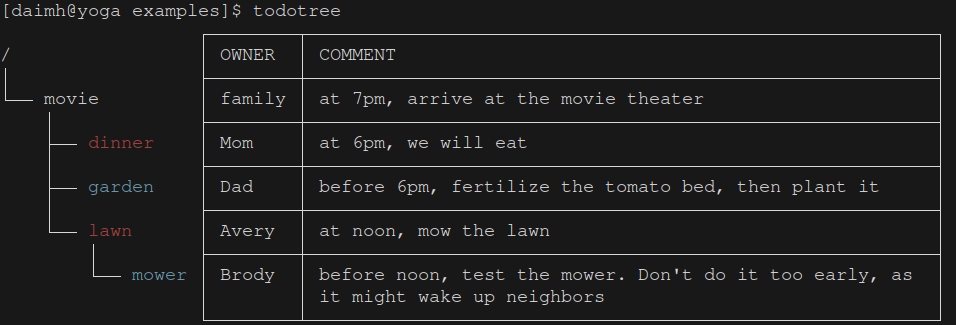
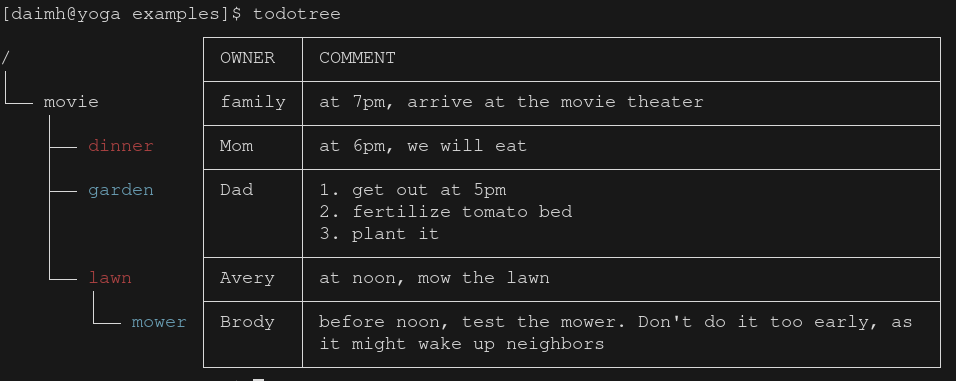
Feat: automatically change to ordered list

diff --git a/examples/output/no-owner.html b/examples/output/no-owner.html
@@ -3,16 +3,19 @@
 <p style='font-family: monospace; font-size: 16px; margin: 0px; line-height: 16px'>│&nbsp;&nbsp;&nbsp;&nbsp;&nbsp;&nbsp;&nbsp;&nbsp;&nbsp;&nbsp;&nbsp;&nbsp;&nbsp;&nbsp;&nbsp;&nbsp;&nbsp;├──────────────────────────────────────────────────────┤</p>
 <p style='font-family: monospace; font-size: 16px; margin: 0px; line-height: 16px'>└──&nbsp;movie&nbsp;&nbsp;&nbsp;&nbsp;&nbsp;&nbsp;&nbsp;&nbsp;&nbsp;│&nbsp;at 7pm, arrive at the movie theater&nbsp;&nbsp;&nbsp;&nbsp;&nbsp;&nbsp;&nbsp;&nbsp;&nbsp;&nbsp;&nbsp;&nbsp;&nbsp;&nbsp;&nbsp;&nbsp;&nbsp;&nbsp;│</p>
 <p style='font-family: monospace; font-size: 16px; margin: 0px; line-height: 16px'>&nbsp;&nbsp;&nbsp;&nbsp;│&nbsp;&nbsp;&nbsp;&nbsp;&nbsp;&nbsp;&nbsp;&nbsp;&nbsp;&nbsp;&nbsp;&nbsp;&nbsp;├──────────────────────────────────────────────────────┤</p>
-<p style='font-family: monospace; font-size: 16px; margin: 0px; line-height: 16px'>&nbsp;&nbsp;&nbsp;&nbsp;├──&nbsp;<span style='color:red'>dinner</span>&nbsp;&nbsp;&nbsp;&nbsp;│&nbsp;at 6pm, we will eat&nbsp;&nbsp;&nbsp;&nbsp;&nbsp;&nbsp;&nbsp;&nbsp;&nbsp;&nbsp;&nbsp;&nbsp;&nbsp;&nbsp;&nbsp;&nbsp;&nbsp;&nbsp;&nbsp;&nbsp;&nbsp;&nbsp;&nbsp;&nbsp;&nbsp;&nbsp;&nbsp;&nbsp;&nbsp;&nbsp;&nbsp;&nbsp;&nbsp;&nbsp;│</p>
-<p style='font-family: monospace; font-size: 16px; margin: 0px; line-height: 16px'>&nbsp;&nbsp;&nbsp;&nbsp;│&nbsp;&nbsp;&nbsp;&nbsp;&nbsp;&nbsp;&nbsp;&nbsp;&nbsp;&nbsp;&nbsp;&nbsp;&nbsp;│&nbsp;Meat, meat, meat, please&nbsp;&nbsp;&nbsp;&nbsp;&nbsp;&nbsp;&nbsp;&nbsp;&nbsp;&nbsp;&nbsp;&nbsp;&nbsp;&nbsp;&nbsp;&nbsp;&nbsp;&nbsp;&nbsp;&nbsp;&nbsp;&nbsp;&nbsp;&nbsp;&nbsp;&nbsp;&nbsp;&nbsp;&nbsp;│</p>
+<p style='font-family: monospace; font-size: 16px; margin: 0px; line-height: 16px'>&nbsp;&nbsp;&nbsp;&nbsp;├──&nbsp;<span style='color:red'>dinner</span>&nbsp;&nbsp;&nbsp;&nbsp;│&nbsp;1.&nbsp;at 6pm, we will eat&nbsp;&nbsp;&nbsp;&nbsp;&nbsp;&nbsp;&nbsp;&nbsp;&nbsp;&nbsp;&nbsp;&nbsp;&nbsp;&nbsp;&nbsp;&nbsp;&nbsp;&nbsp;&nbsp;&nbsp;&nbsp;&nbsp;&nbsp;&nbsp;&nbsp;&nbsp;&nbsp;&nbsp;&nbsp;&nbsp;&nbsp;│</p>
+<p style='font-family: monospace; font-size: 16px; margin: 0px; line-height: 16px'>&nbsp;&nbsp;&nbsp;&nbsp;│&nbsp;&nbsp;&nbsp;&nbsp;&nbsp;&nbsp;&nbsp;&nbsp;&nbsp;&nbsp;&nbsp;&nbsp;&nbsp;│&nbsp;2.&nbsp;Meat, meat, meat, please&nbsp;&nbsp;&nbsp;&nbsp;&nbsp;&nbsp;&nbsp;&nbsp;&nbsp;&nbsp;&nbsp;&nbsp;&nbsp;&nbsp;&nbsp;&nbsp;&nbsp;&nbsp;&nbsp;&nbsp;&nbsp;&nbsp;&nbsp;&nbsp;&nbsp;&nbsp;│</p>
 <p style='font-family: monospace; font-size: 16px; margin: 0px; line-height: 16px'>&nbsp;&nbsp;&nbsp;&nbsp;│&nbsp;&nbsp;&nbsp;&nbsp;&nbsp;&nbsp;&nbsp;&nbsp;&nbsp;&nbsp;&nbsp;&nbsp;&nbsp;├──────────────────────────────────────────────────────┤</p>
-<p style='font-family: monospace; font-size: 16px; margin: 0px; line-height: 16px'>&nbsp;&nbsp;&nbsp;&nbsp;├──&nbsp;<span style='color:blue'>garden</span>&nbsp;&nbsp;&nbsp;&nbsp;│&nbsp;before 6pm, fertilize the tomato bed, then plant it&nbsp;&nbsp;│</p>
-<p style='font-family: monospace; font-size: 16px; margin: 0px; line-height: 16px'>&nbsp;&nbsp;&nbsp;&nbsp;│&nbsp;&nbsp;&nbsp;&nbsp;&nbsp;&nbsp;&nbsp;&nbsp;&nbsp;&nbsp;&nbsp;&nbsp;&nbsp;│&nbsp;Remember to explore the option of planting cucumber&nbsp;&nbsp;│</p>
+<p style='font-family: monospace; font-size: 16px; margin: 0px; line-height: 16px'>&nbsp;&nbsp;&nbsp;&nbsp;├──&nbsp;<span style='color:blue'>garden</span>&nbsp;&nbsp;&nbsp;&nbsp;│&nbsp;1.&nbsp;before 6pm, fertilize the tomato bed, then plant &nbsp;│</p>
+<p style='font-family: monospace; font-size: 16px; margin: 0px; line-height: 16px'>&nbsp;&nbsp;&nbsp;&nbsp;│&nbsp;&nbsp;&nbsp;&nbsp;&nbsp;&nbsp;&nbsp;&nbsp;&nbsp;&nbsp;&nbsp;&nbsp;&nbsp;│&nbsp;&nbsp;&nbsp;&nbsp;it&nbsp;&nbsp;&nbsp;&nbsp;&nbsp;&nbsp;&nbsp;&nbsp;&nbsp;&nbsp;&nbsp;&nbsp;&nbsp;&nbsp;&nbsp;&nbsp;&nbsp;&nbsp;&nbsp;&nbsp;&nbsp;&nbsp;&nbsp;&nbsp;&nbsp;&nbsp;&nbsp;&nbsp;&nbsp;&nbsp;&nbsp;&nbsp;&nbsp;&nbsp;&nbsp;&nbsp;&nbsp;&nbsp;&nbsp;&nbsp;&nbsp;&nbsp;&nbsp;&nbsp;&nbsp;&nbsp;&nbsp;&nbsp;│</p>
+<p style='font-family: monospace; font-size: 16px; margin: 0px; line-height: 16px'>&nbsp;&nbsp;&nbsp;&nbsp;│&nbsp;&nbsp;&nbsp;&nbsp;&nbsp;&nbsp;&nbsp;&nbsp;&nbsp;&nbsp;&nbsp;&nbsp;&nbsp;│&nbsp;2.&nbsp;Remember to explore the option of planting cucumb&nbsp;│</p>
+<p style='font-family: monospace; font-size: 16px; margin: 0px; line-height: 16px'>&nbsp;&nbsp;&nbsp;&nbsp;│&nbsp;&nbsp;&nbsp;&nbsp;&nbsp;&nbsp;&nbsp;&nbsp;&nbsp;&nbsp;&nbsp;&nbsp;&nbsp;│&nbsp;&nbsp;&nbsp;&nbsp;er&nbsp;&nbsp;&nbsp;&nbsp;&nbsp;&nbsp;&nbsp;&nbsp;&nbsp;&nbsp;&nbsp;&nbsp;&nbsp;&nbsp;&nbsp;&nbsp;&nbsp;&nbsp;&nbsp;&nbsp;&nbsp;&nbsp;&nbsp;&nbsp;&nbsp;&nbsp;&nbsp;&nbsp;&nbsp;&nbsp;&nbsp;&nbsp;&nbsp;&nbsp;&nbsp;&nbsp;&nbsp;&nbsp;&nbsp;&nbsp;&nbsp;&nbsp;&nbsp;&nbsp;&nbsp;&nbsp;&nbsp;&nbsp;│</p>
 <p style='font-family: monospace; font-size: 16px; margin: 0px; line-height: 16px'>&nbsp;&nbsp;&nbsp;&nbsp;│&nbsp;&nbsp;&nbsp;&nbsp;&nbsp;&nbsp;&nbsp;&nbsp;&nbsp;&nbsp;&nbsp;&nbsp;&nbsp;├──────────────────────────────────────────────────────┤</p>
-<p style='font-family: monospace; font-size: 16px; margin: 0px; line-height: 16px'>&nbsp;&nbsp;&nbsp;&nbsp;└──&nbsp;<span style='color:red'>lawn</span>&nbsp;&nbsp;&nbsp;&nbsp;&nbsp;&nbsp;│&nbsp;at noon, mow the lawn&nbsp;&nbsp;&nbsp;&nbsp;&nbsp;&nbsp;&nbsp;&nbsp;&nbsp;&nbsp;&nbsp;&nbsp;&nbsp;&nbsp;&nbsp;&nbsp;&nbsp;&nbsp;&nbsp;&nbsp;&nbsp;&nbsp;&nbsp;&nbsp;&nbsp;&nbsp;&nbsp;&nbsp;&nbsp;&nbsp;&nbsp;&nbsp;│</p>
-<p style='font-family: monospace; font-size: 16px; margin: 0px; line-height: 16px'>&nbsp;&nbsp;&nbsp;&nbsp;&nbsp;&nbsp;&nbsp;&nbsp;│&nbsp;&nbsp;&nbsp;&nbsp;&nbsp;&nbsp;&nbsp;&nbsp;&nbsp;│&nbsp;We cannot do it too early&nbsp;&nbsp;&nbsp;&nbsp;&nbsp;&nbsp;&nbsp;&nbsp;&nbsp;&nbsp;&nbsp;&nbsp;&nbsp;&nbsp;&nbsp;&nbsp;&nbsp;&nbsp;&nbsp;&nbsp;&nbsp;&nbsp;&nbsp;&nbsp;&nbsp;&nbsp;&nbsp;&nbsp;│</p>
-<p style='font-family: monospace; font-size: 16px; margin: 0px; line-height: 16px'>&nbsp;&nbsp;&nbsp;&nbsp;&nbsp;&nbsp;&nbsp;&nbsp;│&nbsp;&nbsp;&nbsp;&nbsp;&nbsp;&nbsp;&nbsp;&nbsp;&nbsp;│&nbsp;because the grass is too wet in morning&nbsp;&nbsp;&nbsp;&nbsp;&nbsp;&nbsp;&nbsp;&nbsp;&nbsp;&nbsp;&nbsp;&nbsp;&nbsp;&nbsp;│</p>
+<p style='font-family: monospace; font-size: 16px; margin: 0px; line-height: 16px'>&nbsp;&nbsp;&nbsp;&nbsp;└──&nbsp;<span style='color:red'>lawn</span>&nbsp;&nbsp;&nbsp;&nbsp;&nbsp;&nbsp;│&nbsp;1.&nbsp;at noon, mow the lawn&nbsp;&nbsp;&nbsp;&nbsp;&nbsp;&nbsp;&nbsp;&nbsp;&nbsp;&nbsp;&nbsp;&nbsp;&nbsp;&nbsp;&nbsp;&nbsp;&nbsp;&nbsp;&nbsp;&nbsp;&nbsp;&nbsp;&nbsp;&nbsp;&nbsp;&nbsp;&nbsp;&nbsp;&nbsp;│</p>
+<p style='font-family: monospace; font-size: 16px; margin: 0px; line-height: 16px'>&nbsp;&nbsp;&nbsp;&nbsp;&nbsp;&nbsp;&nbsp;&nbsp;│&nbsp;&nbsp;&nbsp;&nbsp;&nbsp;&nbsp;&nbsp;&nbsp;&nbsp;│&nbsp;2.&nbsp;We cannot do it too early&nbsp;&nbsp;&nbsp;&nbsp;&nbsp;&nbsp;&nbsp;&nbsp;&nbsp;&nbsp;&nbsp;&nbsp;&nbsp;&nbsp;&nbsp;&nbsp;&nbsp;&nbsp;&nbsp;&nbsp;&nbsp;&nbsp;&nbsp;&nbsp;&nbsp;│</p>
+<p style='font-family: monospace; font-size: 16px; margin: 0px; line-height: 16px'>&nbsp;&nbsp;&nbsp;&nbsp;&nbsp;&nbsp;&nbsp;&nbsp;│&nbsp;&nbsp;&nbsp;&nbsp;&nbsp;&nbsp;&nbsp;&nbsp;&nbsp;│&nbsp;3.&nbsp;because the grass is too wet in morning&nbsp;&nbsp;&nbsp;&nbsp;&nbsp;&nbsp;&nbsp;&nbsp;&nbsp;&nbsp;&nbsp;│</p>
 <p style='font-family: monospace; font-size: 16px; margin: 0px; line-height: 16px'>&nbsp;&nbsp;&nbsp;&nbsp;&nbsp;&nbsp;&nbsp;&nbsp;│&nbsp;&nbsp;&nbsp;&nbsp;&nbsp;&nbsp;&nbsp;&nbsp;&nbsp;├──────────────────────────────────────────────────────┤</p>
-<p style='font-family: monospace; font-size: 16px; margin: 0px; line-height: 16px'>&nbsp;&nbsp;&nbsp;&nbsp;&nbsp;&nbsp;&nbsp;&nbsp;└──&nbsp;<span style='color:blue'>mower</span>&nbsp;│&nbsp;before noon, test the mower.&nbsp;&nbsp;&nbsp;&nbsp;&nbsp;&nbsp;&nbsp;&nbsp;&nbsp;&nbsp;&nbsp;&nbsp;&nbsp;&nbsp;&nbsp;&nbsp;&nbsp;&nbsp;&nbsp;&nbsp;&nbsp;&nbsp;&nbsp;&nbsp;&nbsp;│</p>
-<p style='font-family: monospace; font-size: 16px; margin: 0px; line-height: 16px'>&nbsp;&nbsp;&nbsp;&nbsp;&nbsp;&nbsp;&nbsp;&nbsp;&nbsp;&nbsp;&nbsp;&nbsp;&nbsp;&nbsp;&nbsp;&nbsp;&nbsp;&nbsp;│&nbsp;Don't do it too early, as it might wake up neighbors&nbsp;│</p>
+<p style='font-family: monospace; font-size: 16px; margin: 0px; line-height: 16px'>&nbsp;&nbsp;&nbsp;&nbsp;&nbsp;&nbsp;&nbsp;&nbsp;└──&nbsp;<span style='color:blue'>mower</span>&nbsp;│&nbsp;1.&nbsp;before noon, test the mower.&nbsp;&nbsp;&nbsp;&nbsp;&nbsp;&nbsp;&nbsp;&nbsp;&nbsp;&nbsp;&nbsp;&nbsp;&nbsp;&nbsp;&nbsp;&nbsp;&nbsp;&nbsp;&nbsp;&nbsp;&nbsp;&nbsp;│</p>
+<p style='font-family: monospace; font-size: 16px; margin: 0px; line-height: 16px'>&nbsp;&nbsp;&nbsp;&nbsp;&nbsp;&nbsp;&nbsp;&nbsp;&nbsp;&nbsp;&nbsp;&nbsp;&nbsp;&nbsp;&nbsp;&nbsp;&nbsp;&nbsp;│&nbsp;2.&nbsp;Don't do it too early, as it might wake up neighb&nbsp;│</p>
+<p style='font-family: monospace; font-size: 16px; margin: 0px; line-height: 16px'>&nbsp;&nbsp;&nbsp;&nbsp;&nbsp;&nbsp;&nbsp;&nbsp;&nbsp;&nbsp;&nbsp;&nbsp;&nbsp;&nbsp;&nbsp;&nbsp;&nbsp;&nbsp;│&nbsp;&nbsp;&nbsp;&nbsp;ors&nbsp;&nbsp;&nbsp;&nbsp;&nbsp;&nbsp;&nbsp;&nbsp;&nbsp;&nbsp;&nbsp;&nbsp;&nbsp;&nbsp;&nbsp;&nbsp;&nbsp;&nbsp;&nbsp;&nbsp;&nbsp;&nbsp;&nbsp;&nbsp;&nbsp;&nbsp;&nbsp;&nbsp;&nbsp;&nbsp;&nbsp;&nbsp;&nbsp;&nbsp;&nbsp;&nbsp;&nbsp;&nbsp;&nbsp;&nbsp;&nbsp;&nbsp;&nbsp;&nbsp;&nbsp;&nbsp;&nbsp;│</p>
 <p style='font-family: monospace; font-size: 16px; margin: 0px; line-height: 16px'>&nbsp;&nbsp;&nbsp;&nbsp;&nbsp;&nbsp;&nbsp;&nbsp;&nbsp;&nbsp;&nbsp;&nbsp;&nbsp;&nbsp;&nbsp;&nbsp;&nbsp;&nbsp;└──────────────────────────────────────────────────────┘</p>

diff --git a/examples/depth/pos2/todotree.html b/examples/depth/pos2/todotree.html
@@ -1,11 +1,13 @@
-<p style='font-family: monospace; font-size: 16px; margin: 0px; line-height: 16px'>&nbsp;&nbsp;&nbsp;&nbsp;&nbsp;&nbsp;&nbsp;&nbsp;&nbsp;&nbsp;&nbsp;&nbsp;&nbsp;&nbsp;&nbsp;┌────────┬─────────────────────────────────────────────────────┐</p>
-<p style='font-family: monospace; font-size: 16px; margin: 0px; line-height: 16px'>/&nbsp;&nbsp;&nbsp;&nbsp;&nbsp;&nbsp;&nbsp;&nbsp;&nbsp;&nbsp;&nbsp;&nbsp;&nbsp;&nbsp;│&nbsp;OWNER&nbsp;&nbsp;│&nbsp;COMMENT&nbsp;&nbsp;&nbsp;&nbsp;&nbsp;&nbsp;&nbsp;&nbsp;&nbsp;&nbsp;&nbsp;&nbsp;&nbsp;&nbsp;&nbsp;&nbsp;&nbsp;&nbsp;&nbsp;&nbsp;&nbsp;&nbsp;&nbsp;&nbsp;&nbsp;&nbsp;&nbsp;&nbsp;&nbsp;&nbsp;&nbsp;&nbsp;&nbsp;&nbsp;&nbsp;&nbsp;&nbsp;&nbsp;&nbsp;&nbsp;&nbsp;&nbsp;&nbsp;&nbsp;&nbsp;│</p>
-<p style='font-family: monospace; font-size: 16px; margin: 0px; line-height: 16px'>│&nbsp;&nbsp;&nbsp;&nbsp;&nbsp;&nbsp;&nbsp;&nbsp;&nbsp;&nbsp;&nbsp;&nbsp;&nbsp;&nbsp;├────────┼─────────────────────────────────────────────────────┤</p>
-<p style='font-family: monospace; font-size: 16px; margin: 0px; line-height: 16px'>└──&nbsp;movie&nbsp;&nbsp;&nbsp;&nbsp;&nbsp;&nbsp;│&nbsp;family&nbsp;│&nbsp;at 7pm, arrive at the movie theater&nbsp;&nbsp;&nbsp;&nbsp;&nbsp;&nbsp;&nbsp;&nbsp;&nbsp;&nbsp;&nbsp;&nbsp;&nbsp;&nbsp;&nbsp;&nbsp;&nbsp;│</p>
-<p style='font-family: monospace; font-size: 16px; margin: 0px; line-height: 16px'>&nbsp;&nbsp;&nbsp;&nbsp;│&nbsp;&nbsp;&nbsp;&nbsp;&nbsp;&nbsp;&nbsp;&nbsp;&nbsp;&nbsp;├────────┼─────────────────────────────────────────────────────┤</p>
-<p style='font-family: monospace; font-size: 16px; margin: 0px; line-height: 16px'>&nbsp;&nbsp;&nbsp;&nbsp;├──&nbsp;<span style='color:red'>dinner</span>&nbsp;│&nbsp;Mom&nbsp;&nbsp;&nbsp;&nbsp;│&nbsp;at 6pm, we will eat&nbsp;&nbsp;&nbsp;&nbsp;&nbsp;&nbsp;&nbsp;&nbsp;&nbsp;&nbsp;&nbsp;&nbsp;&nbsp;&nbsp;&nbsp;&nbsp;&nbsp;&nbsp;&nbsp;&nbsp;&nbsp;&nbsp;&nbsp;&nbsp;&nbsp;&nbsp;&nbsp;&nbsp;&nbsp;&nbsp;&nbsp;&nbsp;&nbsp;│</p>
-<p style='font-family: monospace; font-size: 16px; margin: 0px; line-height: 16px'>&nbsp;&nbsp;&nbsp;&nbsp;│&nbsp;&nbsp;&nbsp;&nbsp;&nbsp;&nbsp;&nbsp;&nbsp;&nbsp;&nbsp;├────────┼─────────────────────────────────────────────────────┤</p>
-<p style='font-family: monospace; font-size: 16px; margin: 0px; line-height: 16px'>&nbsp;&nbsp;&nbsp;&nbsp;├──&nbsp;<span style='color:blue'>garden</span>&nbsp;│&nbsp;Dad&nbsp;&nbsp;&nbsp;&nbsp;│&nbsp;before 6pm, fertilize the tomato bed, then plant it&nbsp;│</p>
-<p style='font-family: monospace; font-size: 16px; margin: 0px; line-height: 16px'>&nbsp;&nbsp;&nbsp;&nbsp;│&nbsp;&nbsp;&nbsp;&nbsp;&nbsp;&nbsp;&nbsp;&nbsp;&nbsp;&nbsp;├────────┼─────────────────────────────────────────────────────┤</p>
-<p style='font-family: monospace; font-size: 16px; margin: 0px; line-height: 16px'>&nbsp;&nbsp;&nbsp;&nbsp;└──&nbsp;<span style='color:red'>lawn/</span>&nbsp;&nbsp;│&nbsp;Avery&nbsp;&nbsp;│&nbsp;at noon, mow the lawn&nbsp;&nbsp;&nbsp;&nbsp;&nbsp;&nbsp;&nbsp;&nbsp;&nbsp;&nbsp;&nbsp;&nbsp;&nbsp;&nbsp;&nbsp;&nbsp;&nbsp;&nbsp;&nbsp;&nbsp;&nbsp;&nbsp;&nbsp;&nbsp;&nbsp;&nbsp;&nbsp;&nbsp;&nbsp;&nbsp;&nbsp;│</p>
-<p style='font-family: monospace; font-size: 16px; margin: 0px; line-height: 16px'>&nbsp;&nbsp;&nbsp;&nbsp;&nbsp;&nbsp;&nbsp;&nbsp;&nbsp;&nbsp;&nbsp;&nbsp;&nbsp;&nbsp;&nbsp;└────────┴─────────────────────────────────────────────────────┘</p>
+<p style='font-family: monospace; font-size: 16px; margin: 0px; line-height: 16px'>&nbsp;&nbsp;&nbsp;&nbsp;&nbsp;&nbsp;&nbsp;&nbsp;&nbsp;&nbsp;&nbsp;&nbsp;&nbsp;&nbsp;&nbsp;┌────────┬─────────────────────────────────────┐</p>
+<p style='font-family: monospace; font-size: 16px; margin: 0px; line-height: 16px'>/&nbsp;&nbsp;&nbsp;&nbsp;&nbsp;&nbsp;&nbsp;&nbsp;&nbsp;&nbsp;&nbsp;&nbsp;&nbsp;&nbsp;│&nbsp;OWNER&nbsp;&nbsp;│&nbsp;COMMENT&nbsp;&nbsp;&nbsp;&nbsp;&nbsp;&nbsp;&nbsp;&nbsp;&nbsp;&nbsp;&nbsp;&nbsp;&nbsp;&nbsp;&nbsp;&nbsp;&nbsp;&nbsp;&nbsp;&nbsp;&nbsp;&nbsp;&nbsp;&nbsp;&nbsp;&nbsp;&nbsp;&nbsp;&nbsp;│</p>
+<p style='font-family: monospace; font-size: 16px; margin: 0px; line-height: 16px'>│&nbsp;&nbsp;&nbsp;&nbsp;&nbsp;&nbsp;&nbsp;&nbsp;&nbsp;&nbsp;&nbsp;&nbsp;&nbsp;&nbsp;├────────┼─────────────────────────────────────┤</p>
+<p style='font-family: monospace; font-size: 16px; margin: 0px; line-height: 16px'>└──&nbsp;movie&nbsp;&nbsp;&nbsp;&nbsp;&nbsp;&nbsp;│&nbsp;family&nbsp;│&nbsp;at 7pm, arrive at the movie theater&nbsp;│</p>
+<p style='font-family: monospace; font-size: 16px; margin: 0px; line-height: 16px'>&nbsp;&nbsp;&nbsp;&nbsp;│&nbsp;&nbsp;&nbsp;&nbsp;&nbsp;&nbsp;&nbsp;&nbsp;&nbsp;&nbsp;├────────┼─────────────────────────────────────┤</p>
+<p style='font-family: monospace; font-size: 16px; margin: 0px; line-height: 16px'>&nbsp;&nbsp;&nbsp;&nbsp;├──&nbsp;<span style='color:red'>dinner</span>&nbsp;│&nbsp;Mom&nbsp;&nbsp;&nbsp;&nbsp;│&nbsp;at 6pm, we will eat&nbsp;&nbsp;&nbsp;&nbsp;&nbsp;&nbsp;&nbsp;&nbsp;&nbsp;&nbsp;&nbsp;&nbsp;&nbsp;&nbsp;&nbsp;&nbsp;&nbsp;│</p>
+<p style='font-family: monospace; font-size: 16px; margin: 0px; line-height: 16px'>&nbsp;&nbsp;&nbsp;&nbsp;│&nbsp;&nbsp;&nbsp;&nbsp;&nbsp;&nbsp;&nbsp;&nbsp;&nbsp;&nbsp;├────────┼─────────────────────────────────────┤</p>
+<p style='font-family: monospace; font-size: 16px; margin: 0px; line-height: 16px'>&nbsp;&nbsp;&nbsp;&nbsp;├──&nbsp;<span style='color:blue'>garden</span>&nbsp;│&nbsp;Dad&nbsp;&nbsp;&nbsp;&nbsp;│&nbsp;1.&nbsp;get out at 5pm&nbsp;&nbsp;&nbsp;&nbsp;&nbsp;&nbsp;&nbsp;&nbsp;&nbsp;&nbsp;&nbsp;&nbsp;&nbsp;&nbsp;&nbsp;&nbsp;&nbsp;&nbsp;&nbsp;│</p>
+<p style='font-family: monospace; font-size: 16px; margin: 0px; line-height: 16px'>&nbsp;&nbsp;&nbsp;&nbsp;│&nbsp;&nbsp;&nbsp;&nbsp;&nbsp;&nbsp;&nbsp;&nbsp;&nbsp;&nbsp;│&nbsp;&nbsp;&nbsp;&nbsp;&nbsp;&nbsp;&nbsp;&nbsp;│&nbsp;2.&nbsp;fertilize tomato bed&nbsp;&nbsp;&nbsp;&nbsp;&nbsp;&nbsp;&nbsp;&nbsp;&nbsp;&nbsp;&nbsp;&nbsp;&nbsp;│</p>
+<p style='font-family: monospace; font-size: 16px; margin: 0px; line-height: 16px'>&nbsp;&nbsp;&nbsp;&nbsp;│&nbsp;&nbsp;&nbsp;&nbsp;&nbsp;&nbsp;&nbsp;&nbsp;&nbsp;&nbsp;│&nbsp;&nbsp;&nbsp;&nbsp;&nbsp;&nbsp;&nbsp;&nbsp;│&nbsp;3.&nbsp;plant it&nbsp;&nbsp;&nbsp;&nbsp;&nbsp;&nbsp;&nbsp;&nbsp;&nbsp;&nbsp;&nbsp;&nbsp;&nbsp;&nbsp;&nbsp;&nbsp;&nbsp;&nbsp;&nbsp;&nbsp;&nbsp;&nbsp;&nbsp;&nbsp;&nbsp;│</p>
+<p style='font-family: monospace; font-size: 16px; margin: 0px; line-height: 16px'>&nbsp;&nbsp;&nbsp;&nbsp;│&nbsp;&nbsp;&nbsp;&nbsp;&nbsp;&nbsp;&nbsp;&nbsp;&nbsp;&nbsp;├────────┼─────────────────────────────────────┤</p>
+<p style='font-family: monospace; font-size: 16px; margin: 0px; line-height: 16px'>&nbsp;&nbsp;&nbsp;&nbsp;└──&nbsp;<span style='color:red'>lawn/</span>&nbsp;&nbsp;│&nbsp;Avery&nbsp;&nbsp;│&nbsp;at noon, mow the lawn&nbsp;&nbsp;&nbsp;&nbsp;&nbsp;&nbsp;&nbsp;&nbsp;&nbsp;&nbsp;&nbsp;&nbsp;&nbsp;&nbsp;&nbsp;│</p>
+<p style='font-family: monospace; font-size: 16px; margin: 0px; line-height: 16px'>&nbsp;&nbsp;&nbsp;&nbsp;&nbsp;&nbsp;&nbsp;&nbsp;&nbsp;&nbsp;&nbsp;&nbsp;&nbsp;&nbsp;&nbsp;└────────┴─────────────────────────────────────┘</p>

diff --git a/examples/depth/pos2/no-owner.html b/examples/depth/pos2/no-owner.html
@@ -3,13 +3,15 @@
 <p style='font-family: monospace; font-size: 16px; margin: 0px; line-height: 16px'>│&nbsp;&nbsp;&nbsp;&nbsp;&nbsp;&nbsp;&nbsp;&nbsp;&nbsp;&nbsp;&nbsp;&nbsp;&nbsp;&nbsp;├─────────────────────────────────────────────────────┤</p>
 <p style='font-family: monospace; font-size: 16px; margin: 0px; line-height: 16px'>└──&nbsp;movie&nbsp;&nbsp;&nbsp;&nbsp;&nbsp;&nbsp;│&nbsp;at 7pm, arrive at the movie theater&nbsp;&nbsp;&nbsp;&nbsp;&nbsp;&nbsp;&nbsp;&nbsp;&nbsp;&nbsp;&nbsp;&nbsp;&nbsp;&nbsp;&nbsp;&nbsp;&nbsp;│</p>
 <p style='font-family: monospace; font-size: 16px; margin: 0px; line-height: 16px'>&nbsp;&nbsp;&nbsp;&nbsp;│&nbsp;&nbsp;&nbsp;&nbsp;&nbsp;&nbsp;&nbsp;&nbsp;&nbsp;&nbsp;├─────────────────────────────────────────────────────┤</p>
-<p style='font-family: monospace; font-size: 16px; margin: 0px; line-height: 16px'>&nbsp;&nbsp;&nbsp;&nbsp;├──&nbsp;<span style='color:red'>dinner</span>&nbsp;│&nbsp;at 6pm, we will eat&nbsp;&nbsp;&nbsp;&nbsp;&nbsp;&nbsp;&nbsp;&nbsp;&nbsp;&nbsp;&nbsp;&nbsp;&nbsp;&nbsp;&nbsp;&nbsp;&nbsp;&nbsp;&nbsp;&nbsp;&nbsp;&nbsp;&nbsp;&nbsp;&nbsp;&nbsp;&nbsp;&nbsp;&nbsp;&nbsp;&nbsp;&nbsp;&nbsp;│</p>
-<p style='font-family: monospace; font-size: 16px; margin: 0px; line-height: 16px'>&nbsp;&nbsp;&nbsp;&nbsp;│&nbsp;&nbsp;&nbsp;&nbsp;&nbsp;&nbsp;&nbsp;&nbsp;&nbsp;&nbsp;│&nbsp;Meat, meat, meat, please&nbsp;&nbsp;&nbsp;&nbsp;&nbsp;&nbsp;&nbsp;&nbsp;&nbsp;&nbsp;&nbsp;&nbsp;&nbsp;&nbsp;&nbsp;&nbsp;&nbsp;&nbsp;&nbsp;&nbsp;&nbsp;&nbsp;&nbsp;&nbsp;&nbsp;&nbsp;&nbsp;&nbsp;│</p>
+<p style='font-family: monospace; font-size: 16px; margin: 0px; line-height: 16px'>&nbsp;&nbsp;&nbsp;&nbsp;├──&nbsp;<span style='color:red'>dinner</span>&nbsp;│&nbsp;1.&nbsp;at 6pm, we will eat&nbsp;&nbsp;&nbsp;&nbsp;&nbsp;&nbsp;&nbsp;&nbsp;&nbsp;&nbsp;&nbsp;&nbsp;&nbsp;&nbsp;&nbsp;&nbsp;&nbsp;&nbsp;&nbsp;&nbsp;&nbsp;&nbsp;&nbsp;&nbsp;&nbsp;&nbsp;&nbsp;&nbsp;&nbsp;&nbsp;│</p>
+<p style='font-family: monospace; font-size: 16px; margin: 0px; line-height: 16px'>&nbsp;&nbsp;&nbsp;&nbsp;│&nbsp;&nbsp;&nbsp;&nbsp;&nbsp;&nbsp;&nbsp;&nbsp;&nbsp;&nbsp;│&nbsp;2.&nbsp;Meat, meat, meat, please&nbsp;&nbsp;&nbsp;&nbsp;&nbsp;&nbsp;&nbsp;&nbsp;&nbsp;&nbsp;&nbsp;&nbsp;&nbsp;&nbsp;&nbsp;&nbsp;&nbsp;&nbsp;&nbsp;&nbsp;&nbsp;&nbsp;&nbsp;&nbsp;&nbsp;│</p>
 <p style='font-family: monospace; font-size: 16px; margin: 0px; line-height: 16px'>&nbsp;&nbsp;&nbsp;&nbsp;│&nbsp;&nbsp;&nbsp;&nbsp;&nbsp;&nbsp;&nbsp;&nbsp;&nbsp;&nbsp;├─────────────────────────────────────────────────────┤</p>
-<p style='font-family: monospace; font-size: 16px; margin: 0px; line-height: 16px'>&nbsp;&nbsp;&nbsp;&nbsp;├──&nbsp;<span style='color:blue'>garden</span>&nbsp;│&nbsp;before 6pm, fertilize the tomato bed, then plant it&nbsp;│</p>
-<p style='font-family: monospace; font-size: 16px; margin: 0px; line-height: 16px'>&nbsp;&nbsp;&nbsp;&nbsp;│&nbsp;&nbsp;&nbsp;&nbsp;&nbsp;&nbsp;&nbsp;&nbsp;&nbsp;&nbsp;│&nbsp;Remember to explore the option of planting cucumber&nbsp;│</p>
+<p style='font-family: monospace; font-size: 16px; margin: 0px; line-height: 16px'>&nbsp;&nbsp;&nbsp;&nbsp;├──&nbsp;<span style='color:blue'>garden</span>&nbsp;│&nbsp;1.&nbsp;before 6pm, fertilize the tomato bed, then plant&nbsp;│</p>
+<p style='font-family: monospace; font-size: 16px; margin: 0px; line-height: 16px'>&nbsp;&nbsp;&nbsp;&nbsp;│&nbsp;&nbsp;&nbsp;&nbsp;&nbsp;&nbsp;&nbsp;&nbsp;&nbsp;&nbsp;│&nbsp;&nbsp;&nbsp;&nbsp; it&nbsp;&nbsp;&nbsp;&nbsp;&nbsp;&nbsp;&nbsp;&nbsp;&nbsp;&nbsp;&nbsp;&nbsp;&nbsp;&nbsp;&nbsp;&nbsp;&nbsp;&nbsp;&nbsp;&nbsp;&nbsp;&nbsp;&nbsp;&nbsp;&nbsp;&nbsp;&nbsp;&nbsp;&nbsp;&nbsp;&nbsp;&nbsp;&nbsp;&nbsp;&nbsp;&nbsp;&nbsp;&nbsp;&nbsp;&nbsp;&nbsp;&nbsp;&nbsp;&nbsp;&nbsp;&nbsp;│</p>
+<p style='font-family: monospace; font-size: 16px; margin: 0px; line-height: 16px'>&nbsp;&nbsp;&nbsp;&nbsp;│&nbsp;&nbsp;&nbsp;&nbsp;&nbsp;&nbsp;&nbsp;&nbsp;&nbsp;&nbsp;│&nbsp;2.&nbsp;Remember to explore the option of planting cucum&nbsp;│</p>
+<p style='font-family: monospace; font-size: 16px; margin: 0px; line-height: 16px'>&nbsp;&nbsp;&nbsp;&nbsp;│&nbsp;&nbsp;&nbsp;&nbsp;&nbsp;&nbsp;&nbsp;&nbsp;&nbsp;&nbsp;│&nbsp;&nbsp;&nbsp;&nbsp;ber&nbsp;&nbsp;&nbsp;&nbsp;&nbsp;&nbsp;&nbsp;&nbsp;&nbsp;&nbsp;&nbsp;&nbsp;&nbsp;&nbsp;&nbsp;&nbsp;&nbsp;&nbsp;&nbsp;&nbsp;&nbsp;&nbsp;&nbsp;&nbsp;&nbsp;&nbsp;&nbsp;&nbsp;&nbsp;&nbsp;&nbsp;&nbsp;&nbsp;&nbsp;&nbsp;&nbsp;&nbsp;&nbsp;&nbsp;&nbsp;&nbsp;&nbsp;&nbsp;&nbsp;&nbsp;&nbsp;│</p>
 <p style='font-family: monospace; font-size: 16px; margin: 0px; line-height: 16px'>&nbsp;&nbsp;&nbsp;&nbsp;│&nbsp;&nbsp;&nbsp;&nbsp;&nbsp;&nbsp;&nbsp;&nbsp;&nbsp;&nbsp;├─────────────────────────────────────────────────────┤</p>
-<p style='font-family: monospace; font-size: 16px; margin: 0px; line-height: 16px'>&nbsp;&nbsp;&nbsp;&nbsp;└──&nbsp;<span style='color:red'>lawn/</span>&nbsp;&nbsp;│&nbsp;at noon, mow the lawn&nbsp;&nbsp;&nbsp;&nbsp;&nbsp;&nbsp;&nbsp;&nbsp;&nbsp;&nbsp;&nbsp;&nbsp;&nbsp;&nbsp;&nbsp;&nbsp;&nbsp;&nbsp;&nbsp;&nbsp;&nbsp;&nbsp;&nbsp;&nbsp;&nbsp;&nbsp;&nbsp;&nbsp;&nbsp;&nbsp;&nbsp;│</p>
-<p style='font-family: monospace; font-size: 16px; margin: 0px; line-height: 16px'>&nbsp;&nbsp;&nbsp;&nbsp;&nbsp;&nbsp;&nbsp;&nbsp;&nbsp;&nbsp;&nbsp;&nbsp;&nbsp;&nbsp;&nbsp;│&nbsp;We cannot do it too early&nbsp;&nbsp;&nbsp;&nbsp;&nbsp;&nbsp;&nbsp;&nbsp;&nbsp;&nbsp;&nbsp;&nbsp;&nbsp;&nbsp;&nbsp;&nbsp;&nbsp;&nbsp;&nbsp;&nbsp;&nbsp;&nbsp;&nbsp;&nbsp;&nbsp;&nbsp;&nbsp;│</p>
-<p style='font-family: monospace; font-size: 16px; margin: 0px; line-height: 16px'>&nbsp;&nbsp;&nbsp;&nbsp;&nbsp;&nbsp;&nbsp;&nbsp;&nbsp;&nbsp;&nbsp;&nbsp;&nbsp;&nbsp;&nbsp;│&nbsp;because the grass is too wet in morning&nbsp;&nbsp;&nbsp;&nbsp;&nbsp;&nbsp;&nbsp;&nbsp;&nbsp;&nbsp;&nbsp;&nbsp;&nbsp;│</p>
+<p style='font-family: monospace; font-size: 16px; margin: 0px; line-height: 16px'>&nbsp;&nbsp;&nbsp;&nbsp;└──&nbsp;<span style='color:red'>lawn/</span>&nbsp;&nbsp;│&nbsp;1.&nbsp;at noon, mow the lawn&nbsp;&nbsp;&nbsp;&nbsp;&nbsp;&nbsp;&nbsp;&nbsp;&nbsp;&nbsp;&nbsp;&nbsp;&nbsp;&nbsp;&nbsp;&nbsp;&nbsp;&nbsp;&nbsp;&nbsp;&nbsp;&nbsp;&nbsp;&nbsp;&nbsp;&nbsp;&nbsp;&nbsp;│</p>
+<p style='font-family: monospace; font-size: 16px; margin: 0px; line-height: 16px'>&nbsp;&nbsp;&nbsp;&nbsp;&nbsp;&nbsp;&nbsp;&nbsp;&nbsp;&nbsp;&nbsp;&nbsp;&nbsp;&nbsp;&nbsp;│&nbsp;2.&nbsp;We cannot do it too early&nbsp;&nbsp;&nbsp;&nbsp;&nbsp;&nbsp;&nbsp;&nbsp;&nbsp;&nbsp;&nbsp;&nbsp;&nbsp;&nbsp;&nbsp;&nbsp;&nbsp;&nbsp;&nbsp;&nbsp;&nbsp;&nbsp;&nbsp;&nbsp;│</p>
+<p style='font-family: monospace; font-size: 16px; margin: 0px; line-height: 16px'>&nbsp;&nbsp;&nbsp;&nbsp;&nbsp;&nbsp;&nbsp;&nbsp;&nbsp;&nbsp;&nbsp;&nbsp;&nbsp;&nbsp;&nbsp;│&nbsp;3.&nbsp;because the grass is too wet in morning&nbsp;&nbsp;&nbsp;&nbsp;&nbsp;&nbsp;&nbsp;&nbsp;&nbsp;&nbsp;│</p>
 <p style='font-family: monospace; font-size: 16px; margin: 0px; line-height: 16px'>&nbsp;&nbsp;&nbsp;&nbsp;&nbsp;&nbsp;&nbsp;&nbsp;&nbsp;&nbsp;&nbsp;&nbsp;&nbsp;&nbsp;&nbsp;└─────────────────────────────────────────────────────┘</p>

diff --git a/examples/hide/no-owner.html b/examples/hide/no-owner.html
@@ -3,10 +3,11 @@
 <p style='font-family: monospace; font-size: 16px; margin: 0px; line-height: 16px'>│&nbsp;&nbsp;&nbsp;&nbsp;&nbsp;&nbsp;&nbsp;&nbsp;&nbsp;&nbsp;&nbsp;&nbsp;&nbsp;&nbsp;├─────────────────────────────────────────┤</p>
 <p style='font-family: monospace; font-size: 16px; margin: 0px; line-height: 16px'>└──&nbsp;movie&nbsp;&nbsp;&nbsp;&nbsp;&nbsp;&nbsp;│&nbsp;at 7pm, arrive at the movie theater&nbsp;&nbsp;&nbsp;&nbsp;&nbsp;│</p>
 <p style='font-family: monospace; font-size: 16px; margin: 0px; line-height: 16px'>&nbsp;&nbsp;&nbsp;&nbsp;│&nbsp;&nbsp;&nbsp;&nbsp;&nbsp;&nbsp;&nbsp;&nbsp;&nbsp;&nbsp;├─────────────────────────────────────────┤</p>
-<p style='font-family: monospace; font-size: 16px; margin: 0px; line-height: 16px'>&nbsp;&nbsp;&nbsp;&nbsp;├──&nbsp;<span style='color:red'>dinner</span>&nbsp;│&nbsp;at 6pm, we will eat&nbsp;&nbsp;&nbsp;&nbsp;&nbsp;&nbsp;&nbsp;&nbsp;&nbsp;&nbsp;&nbsp;&nbsp;&nbsp;&nbsp;&nbsp;&nbsp;&nbsp;&nbsp;&nbsp;&nbsp;&nbsp;│</p>
-<p style='font-family: monospace; font-size: 16px; margin: 0px; line-height: 16px'>&nbsp;&nbsp;&nbsp;&nbsp;│&nbsp;&nbsp;&nbsp;&nbsp;&nbsp;&nbsp;&nbsp;&nbsp;&nbsp;&nbsp;│&nbsp;Meat, meat, meat, please&nbsp;&nbsp;&nbsp;&nbsp;&nbsp;&nbsp;&nbsp;&nbsp;&nbsp;&nbsp;&nbsp;&nbsp;&nbsp;&nbsp;&nbsp;&nbsp;│</p>
+<p style='font-family: monospace; font-size: 16px; margin: 0px; line-height: 16px'>&nbsp;&nbsp;&nbsp;&nbsp;├──&nbsp;<span style='color:red'>dinner</span>&nbsp;│&nbsp;1.&nbsp;at 6pm, we will eat&nbsp;&nbsp;&nbsp;&nbsp;&nbsp;&nbsp;&nbsp;&nbsp;&nbsp;&nbsp;&nbsp;&nbsp;&nbsp;&nbsp;&nbsp;&nbsp;&nbsp;&nbsp;│</p>
+<p style='font-family: monospace; font-size: 16px; margin: 0px; line-height: 16px'>&nbsp;&nbsp;&nbsp;&nbsp;│&nbsp;&nbsp;&nbsp;&nbsp;&nbsp;&nbsp;&nbsp;&nbsp;&nbsp;&nbsp;│&nbsp;2.&nbsp;Meat, meat, meat, please&nbsp;&nbsp;&nbsp;&nbsp;&nbsp;&nbsp;&nbsp;&nbsp;&nbsp;&nbsp;&nbsp;&nbsp;&nbsp;│</p>
 <p style='font-family: monospace; font-size: 16px; margin: 0px; line-height: 16px'>&nbsp;&nbsp;&nbsp;&nbsp;│&nbsp;&nbsp;&nbsp;&nbsp;&nbsp;&nbsp;&nbsp;&nbsp;&nbsp;&nbsp;├─────────────────────────────────────────┤</p>
-<p style='font-family: monospace; font-size: 16px; margin: 0px; line-height: 16px'>&nbsp;&nbsp;&nbsp;&nbsp;└──&nbsp;<span style='color:red'>lawn</span>&nbsp;&nbsp;&nbsp;│&nbsp;at noon, mow the lawn&nbsp;&nbsp;&nbsp;&nbsp;&nbsp;&nbsp;&nbsp;&nbsp;&nbsp;&nbsp;&nbsp;&nbsp;&nbsp;&nbsp;&nbsp;&nbsp;&nbsp;&nbsp;&nbsp;│</p>
-<p style='font-family: monospace; font-size: 16px; margin: 0px; line-height: 16px'>&nbsp;&nbsp;&nbsp;&nbsp;&nbsp;&nbsp;&nbsp;&nbsp;&nbsp;&nbsp;&nbsp;&nbsp;&nbsp;&nbsp;&nbsp;│&nbsp;We cannot do it too early&nbsp;&nbsp;&nbsp;&nbsp;&nbsp;&nbsp;&nbsp;&nbsp;&nbsp;&nbsp;&nbsp;&nbsp;&nbsp;&nbsp;&nbsp;│</p>
-<p style='font-family: monospace; font-size: 16px; margin: 0px; line-height: 16px'>&nbsp;&nbsp;&nbsp;&nbsp;&nbsp;&nbsp;&nbsp;&nbsp;&nbsp;&nbsp;&nbsp;&nbsp;&nbsp;&nbsp;&nbsp;│&nbsp;because the grass is too wet in morning&nbsp;│</p>
+<p style='font-family: monospace; font-size: 16px; margin: 0px; line-height: 16px'>&nbsp;&nbsp;&nbsp;&nbsp;└──&nbsp;<span style='color:red'>lawn</span>&nbsp;&nbsp;&nbsp;│&nbsp;1.&nbsp;at noon, mow the lawn&nbsp;&nbsp;&nbsp;&nbsp;&nbsp;&nbsp;&nbsp;&nbsp;&nbsp;&nbsp;&nbsp;&nbsp;&nbsp;&nbsp;&nbsp;&nbsp;│</p>
+<p style='font-family: monospace; font-size: 16px; margin: 0px; line-height: 16px'>&nbsp;&nbsp;&nbsp;&nbsp;&nbsp;&nbsp;&nbsp;&nbsp;&nbsp;&nbsp;&nbsp;&nbsp;&nbsp;&nbsp;&nbsp;│&nbsp;2.&nbsp;We cannot do it too early&nbsp;&nbsp;&nbsp;&nbsp;&nbsp;&nbsp;&nbsp;&nbsp;&nbsp;&nbsp;&nbsp;&nbsp;│</p>
+<p style='font-family: monospace; font-size: 16px; margin: 0px; line-height: 16px'>&nbsp;&nbsp;&nbsp;&nbsp;&nbsp;&nbsp;&nbsp;&nbsp;&nbsp;&nbsp;&nbsp;&nbsp;&nbsp;&nbsp;&nbsp;│&nbsp;3.&nbsp;because the grass is too wet in morn&nbsp;│</p>
+<p style='font-family: monospace; font-size: 16px; margin: 0px; line-height: 16px'>&nbsp;&nbsp;&nbsp;&nbsp;&nbsp;&nbsp;&nbsp;&nbsp;&nbsp;&nbsp;&nbsp;&nbsp;&nbsp;&nbsp;&nbsp;│&nbsp;&nbsp;&nbsp;&nbsp;ing&nbsp;&nbsp;&nbsp;&nbsp;&nbsp;&nbsp;&nbsp;&nbsp;&nbsp;&nbsp;&nbsp;&nbsp;&nbsp;&nbsp;&nbsp;&nbsp;&nbsp;&nbsp;&nbsp;&nbsp;&nbsp;&nbsp;&nbsp;&nbsp;&nbsp;&nbsp;&nbsp;&nbsp;&nbsp;&nbsp;&nbsp;&nbsp;&nbsp;&nbsp;│</p>
 <p style='font-family: monospace; font-size: 16px; margin: 0px; line-height: 16px'>&nbsp;&nbsp;&nbsp;&nbsp;&nbsp;&nbsp;&nbsp;&nbsp;&nbsp;&nbsp;&nbsp;&nbsp;&nbsp;&nbsp;&nbsp;└─────────────────────────────────────────┘</p>

diff --git a/examples/output/todotree.html b/examples/output/todotree.html
@@ -5,8 +5,9 @@
 <p style='font-family: monospace; font-size: 16px; margin: 0px; line-height: 16px'>&nbsp;&nbsp;&nbsp;&nbsp;│&nbsp;&nbsp;&nbsp;&nbsp;&nbsp;&nbsp;&nbsp;&nbsp;&nbsp;&nbsp;&nbsp;&nbsp;&nbsp;├────────┼───────────────────────────────────────────────────┤</p>
 <p style='font-family: monospace; font-size: 16px; margin: 0px; line-height: 16px'>&nbsp;&nbsp;&nbsp;&nbsp;├──&nbsp;<span style='color:red'>dinner</span>&nbsp;&nbsp;&nbsp;&nbsp;│&nbsp;Mom&nbsp;&nbsp;&nbsp;&nbsp;│&nbsp;at 6pm, we will eat&nbsp;&nbsp;&nbsp;&nbsp;&nbsp;&nbsp;&nbsp;&nbsp;&nbsp;&nbsp;&nbsp;&nbsp;&nbsp;&nbsp;&nbsp;&nbsp;&nbsp;&nbsp;&nbsp;&nbsp;&nbsp;&nbsp;&nbsp;&nbsp;&nbsp;&nbsp;&nbsp;&nbsp;&nbsp;&nbsp;&nbsp;│</p>
 <p style='font-family: monospace; font-size: 16px; margin: 0px; line-height: 16px'>&nbsp;&nbsp;&nbsp;&nbsp;│&nbsp;&nbsp;&nbsp;&nbsp;&nbsp;&nbsp;&nbsp;&nbsp;&nbsp;&nbsp;&nbsp;&nbsp;&nbsp;├────────┼───────────────────────────────────────────────────┤</p>
-<p style='font-family: monospace; font-size: 16px; margin: 0px; line-height: 16px'>&nbsp;&nbsp;&nbsp;&nbsp;├──&nbsp;<span style='color:blue'>garden</span>&nbsp;&nbsp;&nbsp;&nbsp;│&nbsp;Dad&nbsp;&nbsp;&nbsp;&nbsp;│&nbsp;before 6pm, fertilize the tomato bed, then plant &nbsp;│</p>
-<p style='font-family: monospace; font-size: 16px; margin: 0px; line-height: 16px'>&nbsp;&nbsp;&nbsp;&nbsp;│&nbsp;&nbsp;&nbsp;&nbsp;&nbsp;&nbsp;&nbsp;&nbsp;&nbsp;&nbsp;&nbsp;&nbsp;&nbsp;│&nbsp;&nbsp;&nbsp;&nbsp;&nbsp;&nbsp;&nbsp;&nbsp;│&nbsp;it&nbsp;&nbsp;&nbsp;&nbsp;&nbsp;&nbsp;&nbsp;&nbsp;&nbsp;&nbsp;&nbsp;&nbsp;&nbsp;&nbsp;&nbsp;&nbsp;&nbsp;&nbsp;&nbsp;&nbsp;&nbsp;&nbsp;&nbsp;&nbsp;&nbsp;&nbsp;&nbsp;&nbsp;&nbsp;&nbsp;&nbsp;&nbsp;&nbsp;&nbsp;&nbsp;&nbsp;&nbsp;&nbsp;&nbsp;&nbsp;&nbsp;&nbsp;&nbsp;&nbsp;&nbsp;&nbsp;&nbsp;&nbsp;│</p>
+<p style='font-family: monospace; font-size: 16px; margin: 0px; line-height: 16px'>&nbsp;&nbsp;&nbsp;&nbsp;├──&nbsp;<span style='color:blue'>garden</span>&nbsp;&nbsp;&nbsp;&nbsp;│&nbsp;Dad&nbsp;&nbsp;&nbsp;&nbsp;│&nbsp;1.&nbsp;get out at 5pm&nbsp;&nbsp;&nbsp;&nbsp;&nbsp;&nbsp;&nbsp;&nbsp;&nbsp;&nbsp;&nbsp;&nbsp;&nbsp;&nbsp;&nbsp;&nbsp;&nbsp;&nbsp;&nbsp;&nbsp;&nbsp;&nbsp;&nbsp;&nbsp;&nbsp;&nbsp;&nbsp;&nbsp;&nbsp;&nbsp;&nbsp;&nbsp;&nbsp;│</p>
+<p style='font-family: monospace; font-size: 16px; margin: 0px; line-height: 16px'>&nbsp;&nbsp;&nbsp;&nbsp;│&nbsp;&nbsp;&nbsp;&nbsp;&nbsp;&nbsp;&nbsp;&nbsp;&nbsp;&nbsp;&nbsp;&nbsp;&nbsp;│&nbsp;&nbsp;&nbsp;&nbsp;&nbsp;&nbsp;&nbsp;&nbsp;│&nbsp;2.&nbsp;fertilize tomato bed&nbsp;&nbsp;&nbsp;&nbsp;&nbsp;&nbsp;&nbsp;&nbsp;&nbsp;&nbsp;&nbsp;&nbsp;&nbsp;&nbsp;&nbsp;&nbsp;&nbsp;&nbsp;&nbsp;&nbsp;&nbsp;&nbsp;&nbsp;&nbsp;&nbsp;&nbsp;&nbsp;│</p>
+<p style='font-family: monospace; font-size: 16px; margin: 0px; line-height: 16px'>&nbsp;&nbsp;&nbsp;&nbsp;│&nbsp;&nbsp;&nbsp;&nbsp;&nbsp;&nbsp;&nbsp;&nbsp;&nbsp;&nbsp;&nbsp;&nbsp;&nbsp;│&nbsp;&nbsp;&nbsp;&nbsp;&nbsp;&nbsp;&nbsp;&nbsp;│&nbsp;3.&nbsp;plant it&nbsp;&nbsp;&nbsp;&nbsp;&nbsp;&nbsp;&nbsp;&nbsp;&nbsp;&nbsp;&nbsp;&nbsp;&nbsp;&nbsp;&nbsp;&nbsp;&nbsp;&nbsp;&nbsp;&nbsp;&nbsp;&nbsp;&nbsp;&nbsp;&nbsp;&nbsp;&nbsp;&nbsp;&nbsp;&nbsp;&nbsp;&nbsp;&nbsp;&nbsp;&nbsp;&nbsp;&nbsp;&nbsp;&nbsp;│</p>
 <p style='font-family: monospace; font-size: 16px; margin: 0px; line-height: 16px'>&nbsp;&nbsp;&nbsp;&nbsp;│&nbsp;&nbsp;&nbsp;&nbsp;&nbsp;&nbsp;&nbsp;&nbsp;&nbsp;&nbsp;&nbsp;&nbsp;&nbsp;├────────┼───────────────────────────────────────────────────┤</p>
 <p style='font-family: monospace; font-size: 16px; margin: 0px; line-height: 16px'>&nbsp;&nbsp;&nbsp;&nbsp;└──&nbsp;<span style='color:red'>lawn</span>&nbsp;&nbsp;&nbsp;&nbsp;&nbsp;&nbsp;│&nbsp;Avery&nbsp;&nbsp;│&nbsp;at noon, mow the lawn&nbsp;&nbsp;&nbsp;&nbsp;&nbsp;&nbsp;&nbsp;&nbsp;&nbsp;&nbsp;&nbsp;&nbsp;&nbsp;&nbsp;&nbsp;&nbsp;&nbsp;&nbsp;&nbsp;&nbsp;&nbsp;&nbsp;&nbsp;&nbsp;&nbsp;&nbsp;&nbsp;&nbsp;&nbsp;│</p>
 <p style='font-family: monospace; font-size: 16px; margin: 0px; line-height: 16px'>&nbsp;&nbsp;&nbsp;&nbsp;&nbsp;&nbsp;&nbsp;&nbsp;│&nbsp;&nbsp;&nbsp;&nbsp;&nbsp;&nbsp;&nbsp;&nbsp;&nbsp;├────────┼───────────────────────────────────────────────────┤</p>

diff --git a/examples/depth/neg1/no-owner.html b/examples/depth/neg1/no-owner.html
@@ -3,7 +3,8 @@
 <p style='font-family: monospace; font-size: 16px; margin: 0px; line-height: 16px'>│&nbsp;&nbsp;&nbsp;&nbsp;&nbsp;&nbsp;&nbsp;&nbsp;&nbsp;&nbsp;&nbsp;&nbsp;&nbsp;├─────────────────────────────────────────┤</p>
 <p style='font-family: monospace; font-size: 16px; margin: 0px; line-height: 16px'>└──&nbsp;movie&nbsp;&nbsp;&nbsp;&nbsp;&nbsp;│&nbsp;at 7pm, arrive at the movie theater&nbsp;&nbsp;&nbsp;&nbsp;&nbsp;│</p>
 <p style='font-family: monospace; font-size: 16px; margin: 0px; line-height: 16px'>&nbsp;&nbsp;&nbsp;&nbsp;│&nbsp;&nbsp;&nbsp;&nbsp;&nbsp;&nbsp;&nbsp;&nbsp;&nbsp;├─────────────────────────────────────────┤</p>
-<p style='font-family: monospace; font-size: 16px; margin: 0px; line-height: 16px'>&nbsp;&nbsp;&nbsp;&nbsp;└──&nbsp;<span style='color:red'>lawn/</span>&nbsp;│&nbsp;at noon, mow the lawn&nbsp;&nbsp;&nbsp;&nbsp;&nbsp;&nbsp;&nbsp;&nbsp;&nbsp;&nbsp;&nbsp;&nbsp;&nbsp;&nbsp;&nbsp;&nbsp;&nbsp;&nbsp;&nbsp;│</p>
-<p style='font-family: monospace; font-size: 16px; margin: 0px; line-height: 16px'>&nbsp;&nbsp;&nbsp;&nbsp;&nbsp;&nbsp;&nbsp;&nbsp;&nbsp;&nbsp;&nbsp;&nbsp;&nbsp;&nbsp;│&nbsp;We cannot do it too early&nbsp;&nbsp;&nbsp;&nbsp;&nbsp;&nbsp;&nbsp;&nbsp;&nbsp;&nbsp;&nbsp;&nbsp;&nbsp;&nbsp;&nbsp;│</p>
-<p style='font-family: monospace; font-size: 16px; margin: 0px; line-height: 16px'>&nbsp;&nbsp;&nbsp;&nbsp;&nbsp;&nbsp;&nbsp;&nbsp;&nbsp;&nbsp;&nbsp;&nbsp;&nbsp;&nbsp;│&nbsp;because the grass is too wet in morning&nbsp;│</p>
+<p style='font-family: monospace; font-size: 16px; margin: 0px; line-height: 16px'>&nbsp;&nbsp;&nbsp;&nbsp;└──&nbsp;<span style='color:red'>lawn/</span>&nbsp;│&nbsp;1.&nbsp;at noon, mow the lawn&nbsp;&nbsp;&nbsp;&nbsp;&nbsp;&nbsp;&nbsp;&nbsp;&nbsp;&nbsp;&nbsp;&nbsp;&nbsp;&nbsp;&nbsp;&nbsp;│</p>
+<p style='font-family: monospace; font-size: 16px; margin: 0px; line-height: 16px'>&nbsp;&nbsp;&nbsp;&nbsp;&nbsp;&nbsp;&nbsp;&nbsp;&nbsp;&nbsp;&nbsp;&nbsp;&nbsp;&nbsp;│&nbsp;2.&nbsp;We cannot do it too early&nbsp;&nbsp;&nbsp;&nbsp;&nbsp;&nbsp;&nbsp;&nbsp;&nbsp;&nbsp;&nbsp;&nbsp;│</p>
+<p style='font-family: monospace; font-size: 16px; margin: 0px; line-height: 16px'>&nbsp;&nbsp;&nbsp;&nbsp;&nbsp;&nbsp;&nbsp;&nbsp;&nbsp;&nbsp;&nbsp;&nbsp;&nbsp;&nbsp;│&nbsp;3.&nbsp;because the grass is too wet in morn&nbsp;│</p>
+<p style='font-family: monospace; font-size: 16px; margin: 0px; line-height: 16px'>&nbsp;&nbsp;&nbsp;&nbsp;&nbsp;&nbsp;&nbsp;&nbsp;&nbsp;&nbsp;&nbsp;&nbsp;&nbsp;&nbsp;│&nbsp;&nbsp;&nbsp;&nbsp;ing&nbsp;&nbsp;&nbsp;&nbsp;&nbsp;&nbsp;&nbsp;&nbsp;&nbsp;&nbsp;&nbsp;&nbsp;&nbsp;&nbsp;&nbsp;&nbsp;&nbsp;&nbsp;&nbsp;&nbsp;&nbsp;&nbsp;&nbsp;&nbsp;&nbsp;&nbsp;&nbsp;&nbsp;&nbsp;&nbsp;&nbsp;&nbsp;&nbsp;&nbsp;│</p>
 <p style='font-family: monospace; font-size: 16px; margin: 0px; line-height: 16px'>&nbsp;&nbsp;&nbsp;&nbsp;&nbsp;&nbsp;&nbsp;&nbsp;&nbsp;&nbsp;&nbsp;&nbsp;&nbsp;&nbsp;└─────────────────────────────────────────┘</p>

diff --git a/src/todotree/todo.rs b/src/todotree/todo.rs
@@ -55,7 +55,7 @@ impl Todo {
                     return Err(TodoError {
                         msg: format!(
                             "ERR-001: Todo name '{}' contains unsupported \
-                            'character {}', which is not alphabet, digit, \
+                            character '{}', which is not alphabet, digit, \
 							or {:?}",
                             name, c, SPECIALS
                         ),
@@ -452,6 +452,12 @@ impl Todo {
             0 => &vec![String::new(); 1],
             _ => &self.comment,
         };
+		let dgt_width = comt.len().to_string().len();
+		let seq_width = match self.comment.len() {
+			0 | 1 => 0,
+			_ => dgt_width + 2,
+		};
+		let cmt_width = maxlens[2] - seq_width;
         for (idx, line) in comt.iter().enumerate() {
             if idx > 0 {
                 self.fmt_cont_comment_or_dash(
@@ -460,9 +466,15 @@ impl Todo {
             }
             let mut start = 0;
             loop {
-                let slen = min(line.len() - start, maxlens[2]);
+                let slen = min(line.len() - start, cmt_width);
+				if seq_width > 0 {
+					match start {
+						0 => write!(fo, "{:0>dgt_width$}.{}", idx+1, space),
+						_ => write!(fo, "{}", space.repeat(seq_width)),
+					}?;
+				}
                 write!(fo, "{}", &line[start..start + slen])?;
-                write!(fo, "{}", space.repeat(maxlens[2] - slen))?;
+                write!(fo, "{}", space.repeat(cmt_width - slen))?;
                 write!(fo, "{}│{}", space, eol)?;
                 start = start + slen;
                 if start >= line.len() {

diff --git a/examples/todotree.md b/examples/todotree.md
@@ -13,7 +13,9 @@ Meat, meat, meat, please
 
 # ~~garden~~
 - @ Dad
-- % before 6pm, fertilize the tomato bed, then plant it
+- % get out at 5pm
+- % fertilize tomato bed
+- % plant it
 
 Remember to explore the option of planting cucumber
 

diff --git a/examples/depth/pos2/todotree.md b/examples/depth/pos2/todotree.md
@@ -13,7 +13,9 @@ Meat, meat, meat, please
 
 # ~garden
 - @ Dad
-- % before 6pm, fertilize the tomato bed, then plant it
+- % get out at 5pm
+- % fertilize tomato bed
+- % plant it
 
 Remember to explore the option of planting cucumber
 

diff --git a/examples/output/todotree.md b/examples/output/todotree.md
@@ -13,7 +13,9 @@ Meat, meat, meat, please
 
 # ~garden
 - @ Dad
-- % before 6pm, fertilize the tomato bed, then plant it
+- % get out at 5pm
+- % fertilize tomato bed
+- % plant it
 
 Remember to explore the option of planting cucumber
 
